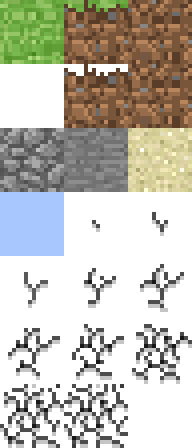
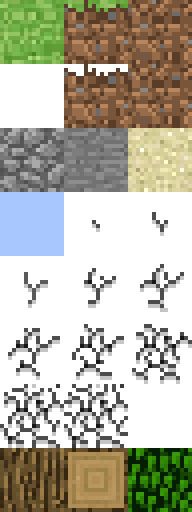
tweakable height map parameters

diff --git a/src/ChunkManager.cpp b/src/ChunkManager.cpp
@@ -191,9 +191,10 @@ std::string GenerateSaveFolderPath( const char * worldName ) {
 
 void ChunkManager::Init( const char * worldName, const glm::vec3 & playerPos ) {
 	ZoneScoped;
+	buildersShouldRun.store( true );
 	shader.CompileFromResource( SHADERS_VOXEL_VERT, SHADERS_VOXEL_FRAG );
 	shadowShader.CompileFromResource( SHADERS_VOXEL_SHADOW_VERT, SHADERS_VOXEL_SHADOW_FRAG );
-	textureAtlas = loadTextureAtlas( BLOCKS_PIXEL_PERFECT_PNG, 7, 3 );
+	textureAtlas = loadTextureAtlas( BLOCKS_PIXEL_PERFECT_PNG, 8, 3 );
 
 	strncpy( this->worldName, worldName, WORLD_NAME_MAX_SIZE );
 	saveFolderPath = GenerateSaveFolderPath( worldName );
@@ -207,11 +208,18 @@ void ChunkManager::Init( const char * worldName, const glm::vec3 & playerPos ) {
 }
 
 void ChunkManager::LoadWorld( const std::string & saveFileFolder ) {
-	int seed = 0;
-	std::srand( ( u32 )std::time( nullptr ) );
-	seed = std::rand();
-	ng::Printf( "Generated new seed %d for world\n", seed );
-	worldSeed = seed;
+	if ( worldSeed == 0 ) {
+		ng::File    seedFile;
+		std::string seedFilePath = saveFolderPath + "/seed.txt";
+		seedFile.Open( seedFilePath.c_str(), ng::File::MODE_READ );
+		u64    fileSize = seedFile.GetSize();
+		char * buffer = new char[ fileSize + 1 ];
+		seedFile.Read( buffer, fileSize );
+		buffer[ fileSize ] = 0;
+		worldSeed = atoi( buffer );
+		seedFile.Close();
+		ng::Printf( "Loaded world with seed %d\n", worldSeed );
+	}
 }
 
 void ChunkManager::CreateNewWorld( const char * worldName ) {
@@ -223,6 +231,18 @@ void ChunkManager::CreateNewWorld( const char * worldName ) {
 	} else {
 		ng_assert( false );
 	}
+	int seed = 0;
+	std::srand( ( u32 )std::time( nullptr ) );
+	seed = std::rand();
+	ng::Printf( "Generated new seed %d for world\n", seed );
+	worldSeed = seed;
+
+	ng::File    seedFile;
+	std::string seedFilePath = saveFolderPath + "/seed.txt";
+	seedFile.Open( seedFilePath.c_str(), ng::File::MODE_CREATE | ng::File::MODE_TRUNCATE | ng::File::MODE_WRITE );
+	std::string seedStr = std::to_string( worldSeed );
+	seedFile.Write( seedStr.c_str(), seedStr.length() );
+	seedFile.Close();
 }
 
 void ChunkManager::Shutdown() {
@@ -233,14 +253,17 @@ void ChunkManager::Shutdown() {
 		delete mc->thread;
 		delete mc;
 	}
+	megaChunks.clear();
 	for ( MegaChunk * mc : megaChunkPool ) {
 		delete mc;
 	}
+	megaChunkPool.clear();
 	for ( auto & e : chunks ) {
 		e.second->DeleteGLBuffers();
 		e.second->Destroy();
 		delete e.second;
 	}
+	chunks.clear();
 	while ( poolHead != nullptr ) {
 		poolHead->Destroy();
 		auto newHead = poolHead->poolNextItem;
@@ -316,13 +339,15 @@ void ChunkManager::Update( const glm::vec3 & playerPos ) {
 void ChunkManager::FlushLoadingQueue() {
 	Chunk * builtChunk = nullptr;
 	while ( buildingQueueOut.try_dequeue( builtChunk ) ) {
-		if ( !ChunkIsLoaded( builtChunk->position ) ) {
-			chunks[ builtChunk->position ] = builtChunk;
-			builtChunk->CreateGLBuffers();
-		} else {
-			// Race condition: the element was built twice
-			pushChunkToPool( builtChunk );
+		// TODO: We create a lot of chunks multiple, this should not happend as often
+		if ( chunks.find( builtChunk->position ) != chunks.end() ) {
+			Chunk * oldChunk = chunks[ builtChunk->position ];
+			oldChunk->DeleteGLBuffers();
+			MegaChunk * megaChunk = FindOrCreateMegaChunk( oldChunk->position, saveFolderPath.c_str(), heightMap );
+			megaChunk->chunksToUnload.enqueue( oldChunk );
 		}
+		chunks[ builtChunk->position ] = builtChunk;
+		builtChunk->CreateGLBuffers();
 	}
 }
 
@@ -372,8 +397,7 @@ void ChunkManager::Draw( const Frustrum & frustrum, u32 shadowMap ) {
 		bounds.min = chunk->worldPosition;
 		bounds.max = chunk->worldPosition + sizeOffset;
 		// Check if any of eight corners of the chunk is in sight
-		//if ( frustrum.IsCubeIn( bounds ) ) {
-		if (true) {
+		if ( frustrum.IsCubeIn( bounds ) ) {
 			shader.SetVector( "chunkWorldPosition", chunk->worldPosition );
 			meshDraw( chunk->mesh );
 			drawCallsLastFrame++;
@@ -402,19 +426,20 @@ void ChunkManager::DrawShadows( const Frustrum & frustrum ) {
 	ZoneScoped;
 	shadowShader.Use();
 	static glm::vec3 sizeOffset = glm::vec3( ( float )CHUNK_SIZE, ( float )CHUNK_HEIGHT, ( float )CHUNK_SIZE );
-	
+	Aabb             bounds;
+
 	for ( auto & it : chunks ) {
 		Chunk * chunk = it.second;
 
 		ng_assert( chunk != nullptr );
 		auto worldPosition = ChunkToWorldPosition( chunk->position );
-		// bounds.min = worldPosition;
-		// bounds.max = worldPosition + sizeOffset;
+		bounds.min = worldPosition;
+		bounds.max = worldPosition + sizeOffset;
 		// Check if any of eight corners of the chunk is in sight
-		// if ( frustrum.IsCubeIn( bounds ) ) {
-		shader.SetVector( "chunkWorldPosition", chunk->worldPosition );
-		meshDraw( chunk->mesh );
-		//}
+		if ( frustrum.IsCubeIn( bounds ) ) {
+			shader.SetVector( "chunkWorldPosition", chunk->worldPosition );
+			meshDraw( chunk->mesh );
+		}
 	}
 
 	// for ( auto & it : chunks ) {
@@ -511,5 +536,13 @@ void ChunkManager::DebugDraw() {
 
 	if ( ImGui::Button( "Save the world" ) ) {
 		SaveWorld();
+	}
+	if ( ImGui::TreeNode( "HeightMap" ) ) {
+		bool shouldRegenerateWorld = heightMap.DebugDraw();
+		if ( shouldRegenerateWorld ) {
+			Shutdown();
+			Init( worldName, ChunkToWorldPosition( lastPosition ) );
+		}
+		ImGui::TreePop();
 	}
 }

diff --git a/src/HeightMap.cpp b/src/HeightMap.cpp
@@ -1,34 +1,33 @@
 #include <HeightMap.hpp>
+#include <imgui/imgui.h>
 #include <math.h>
 #include <tracy/Tracy.hpp>
 
 void HeightMap::Init( int seed ) {
-	elevationFreq = 0.003f;
+	this->seed = seed;
 	elevationNoise.SetSeed( seed );
 	elevationNoise.SetNoiseType( FastNoise::Perlin );
 	elevationNoise.SetFrequency( elevationFreq );
 
-	surfaceFreq = 0.025f;
 	heightMapNoise.SetSeed( seed );
 	heightMapNoise.SetNoiseType( FastNoise::Perlin );
 	heightMapNoise.SetFrequency( surfaceFreq );
 
-	caveFreq = 0.08f;
 	caveNoise.SetSeed( seed );
 	caveNoise.SetNoiseType( FastNoise::Perlin );
 	caveNoise.SetFrequency( caveFreq );
 
-	moistureFreq = 0.08f;
 	moistureNoise.SetSeed( seed );
 	moistureNoise.SetNoiseType( FastNoise::Perlin );
 	moistureNoise.SetFrequency( moistureFreq );
 
-	offsetFreq = 0.015f;
 	offsetNoise.SetSeed( seed );
 	offsetNoise.SetNoiseType( FastNoise::Perlin );
 	offsetNoise.SetFrequency( offsetFreq );
 
-	elevationMultiplier = 1.55f;
+	treeNoise.SetSeed( seed );
+	treeNoise.SetNoiseType( FastNoise::Perlin );
+	treeNoise.SetFrequency( treeFreq );
 }
 
 float HeightMap::GetHeightAt( s32 x, s32 y ) const {
@@ -40,4 +39,18 @@ float HeightMap::GetHeightAt( s32 x, s32 y ) const {
 	               ( heightMapNoise.GetNoise( x * 4, y * 4 ) + 1 ) * 0.25f * CHUNK_SIZE;
 
 	return pow( height, exponant ) + offset;
+}
+
+bool HeightMap::DebugDraw() {
+	ImGui::Text( "Seed: %d\n", seed );
+	ImGui::SliderFloat( "Moisture", &moistureFreq, 0.0f, 1.0f );
+	ImGui::SliderFloat( "Offset", &offsetFreq, 0.0f, 1.0f );
+	ImGui::SliderFloat( "Cave", &caveFreq, 0.0f, 1.0f );
+	ImGui::SliderFloat( "Tree", &treeFreq, 0.0f, 1.0f );
+	ImGui::SliderFloat( "Elevation", &elevationFreq, 0.0f, 1.0f );
+	if ( ImGui::Button( "Reset" ) ) {
+		Init( seed );
+		return true;
+	}
+	return false;
 }

diff --git a/src/Camera.cpp b/src/Camera.cpp
@@ -99,7 +99,6 @@ void Camera::Update( const IO & io, Player & player, float dt ) {
 		pitch = -89.0f;
 	}
 	UpdateCameraVectors();
-	frustrum.Update( viewMatrix, projMatrix );
 
 	// Rotate player
 	player.front = front;
@@ -110,10 +109,10 @@ void Camera::Update( const IO & io, Player & player, float dt ) {
 
 	lightDirection = glm::normalize( -1.0f * lightPosition );
 	{
-		float farHalfWidth = shadowZFar * tanf( fov / 2 );
-		float nearHalfWidth = shadowZNear * tanf( fov / 2 );
-		float farHalfHeight = farHalfWidth / aspectRatio;
-		float nearHalfHeight = nearHalfWidth / aspectRatio;
+		float farHalfHeight = shadowZFar * tanf( fov / 2 );
+		float nearHalfHeight = shadowZNear * tanf( fov / 2 );
+		float farHalfWidth = farHalfHeight * aspectRatio;
+		float nearHalfWidth = nearHalfHeight * aspectRatio;
 
 		glm::vec3 toFar = front * shadowZFar;
 		glm::vec3 toNear = front * shadowZNear;
@@ -175,6 +174,8 @@ void Camera::Update( const IO & io, Player & player, float dt ) {
 		min.z += shadowOffset;
 		lightProjectionMatrix = glm::ortho( min.x, max.x, min.y, max.y, min.z, max.z );
 	}
+	frustrum.Update( viewMatrix, projMatrix );
+	shadowFrustrum.Update( lightViewMatrix, lightProjectionMatrix );
 
 	glm::mat4 viewProj = projMatrix * viewMatrix;
 	glm::mat4 lightViewProj = lightProjectionMatrix * lightViewMatrix;

diff --git a/src/HeightMap.hpp b/src/HeightMap.hpp
@@ -13,24 +13,24 @@ struct HeightMap {
 	static constexpr s32 caveLevel = ( CHUNK_HEIGHT / 2 ) - CHUNK_SIZE;
 	static constexpr s32 waterLevel = ( CHUNK_HEIGHT / 2 ) + CHUNK_SIZE;
 
-	void Init( int seed );
+	void  Init( int seed );
+	float GetHeightAt( s32 x, s32 y ) const;
+	bool  DebugDraw();
 
+	int       seed;
 	FastNoise heightMapNoise;
-	float     surfaceFreq;
-	float     GetHeightAt( s32 x, s32 y ) const;
-
 	FastNoise elevationNoise;
-	float     elevationFreq;
-	float     elevationMultiplier;
-
 	FastNoise moistureNoise;
-	float     moistureFreq;
-
 	FastNoise offsetNoise;
-	float     offsetFreq;
-
 	FastNoise caveNoise;
-	float     caveFreq;
+	FastNoise treeNoise;
+	float     surfaceFreq;
+	float     moistureFreq = 0.08f;
+	float     offsetFreq = 0.015f;
+	float     caveFreq = 0.08f;
+	float     treeFreq = 0.05f;
+	float     elevationFreq = 0.003f;
+	float     elevationMultiplier = 1.55f;
 
 	inline float GetElevationAt( s32 x, s32 y ) const {
 		return ( elevationNoise.GetNoise( ( float )x, ( float )y ) + 1.0f ) / 2.0f * elevationMultiplier;

diff --git a/src/Block.cpp b/src/Block.cpp
@@ -41,6 +41,14 @@ void BlockGetTextureIndices( eBlockType type, u8 & top, u8 & bottom, u8 & side )
 		bottom = 9;
 		side = 9;
 		break;
+	case eBlockType::WOOD:
+		top = 22;
+		bottom = 22;
+		side = 21;
+	case eBlockType::LEAVES:
+		top = 23;
+		bottom = 23;
+		side = 23;
 	default:
 		ng_assert( false );
 		break;
@@ -49,15 +57,19 @@ void BlockGetTextureIndices( eBlockType type, u8 & top, u8 & bottom, u8 & side )
 
 float BlockGetResistance( eBlockType type ) {
 	switch ( type ) {
+	case eBlockType::LEAVES:
+		return 0.2f;
+	case eBlockType::SAND:
+		return 0.5f;
 	case eBlockType::GRASS:
 	case eBlockType::DIRT:
 	case eBlockType::SNOW:
-		return 5.0f;
+		return 1.0f;
+	case eBlockType::WOOD:
+		return 1.5f;
 	case eBlockType::COBBLESTONE:
 	case eBlockType::STONE:
-		return 20.0f;
-	case eBlockType::SAND:
-		return 3.0f;
+		return 2.0f;
 	case eBlockType::WATER:
 	case eBlockType::INACTIVE:
 	default:

diff --git a/src/main.cpp b/src/main.cpp
@@ -60,7 +60,7 @@ static void Render() {
 	glEnable( GL_DEPTH_TEST );
 	glDisable( GL_BLEND );
 	glCullFace( GL_NONE );
-	theGame->chunkManager.DrawShadows( theGame->camera.frustrum );
+	theGame->chunkManager.DrawShadows( theGame->camera.shadowFrustrum );
 	glCullFace( GL_BACK );
 	glBindFramebuffer( GL_FRAMEBUFFER, 0 );
 	glViewport( 0, 0, theGame->window.width, theGame->window.height );
@@ -93,7 +93,7 @@ static void Render() {
 	glClear( GL_DEPTH_BUFFER_BIT | GL_COLOR_BUFFER_BIT );
 	glEnable( GL_DEPTH_TEST );
 	glDisable( GL_BLEND );
-	theGame->chunkManager.Draw( theGame->camera.frustrum, fakeTextureMap );
+	theGame->chunkManager.Draw( theGame->camera.shadowFrustrum, fakeTextureMap );
 	Guizmo::Draw();
 	Guizmo::NewFrame();
 	glBindFramebuffer( GL_FRAMEBUFFER, 0 );

diff --git a/src/Window.hpp b/src/Window.hpp
@@ -6,8 +6,8 @@
 #include <stdexcept>
 
 constexpr char WINDOW_TITLE[] = "Minecrouft";
-constexpr int  WINDOW_WIDTH = 1280;
-constexpr int  WINDOW_HEIGHT = 720;
+constexpr int  WINDOW_WIDTH = 1920;
+constexpr int  WINDOW_HEIGHT = 1080;
 
 class Window {
   public:
@@ -38,7 +38,7 @@ class Window {
 		}
 		glContext = SDL_GL_CreateContext( glWindow );
 		SDL_GL_MakeCurrent( glWindow, glContext );
-		SDL_GL_SetSwapInterval( 1 ); // Enable vsync
+		SDL_GL_SetSwapInterval( 0 ); // Enable vsync
 
 		// gl3w: load all OpenGL function pointers
 		if ( gl3wInit() )

diff --git a/src/ChunkManager.hpp b/src/ChunkManager.hpp
@@ -84,7 +84,7 @@ struct ChunkManager {
 
 	char                                  worldName[ WORLD_NAME_MAX_SIZE ];
 	std::string                           saveFolderPath;
-	int                                   worldSeed;
+	int                                   worldSeed = 0;
 	std::map< ChunkCoordinates, Chunk * > chunks;
 	HeightMap                             heightMap;
 

diff --git a/src/Block.hpp b/src/Block.hpp
@@ -1,7 +1,7 @@
 #pragma once
 #include "constants.hpp"
 
-enum class eBlockType : char { INACTIVE = 0, GRASS, DIRT, SAND, STONE, COBBLESTONE, SNOW, WATER };
+enum class eBlockType : char { INACTIVE = 0, GRASS, DIRT, SAND, STONE, COBBLESTONE, SNOW, WATER, WOOD, LEAVES };
 
 bool BlockTypeIsCollidable( eBlockType type );
 float BlockGetResistance( eBlockType type );

diff --git a/src/Camera.hpp b/src/Camera.hpp
@@ -43,6 +43,7 @@ struct Camera {
 	float zoom = CAM_DEFAULT_ZOOM;
 
 	Frustrum frustrum;
+	Frustrum shadowFrustrum;
 
 	void Init( float aspectRatio, const glm::vec3 & position, const glm::vec3 up );
 
